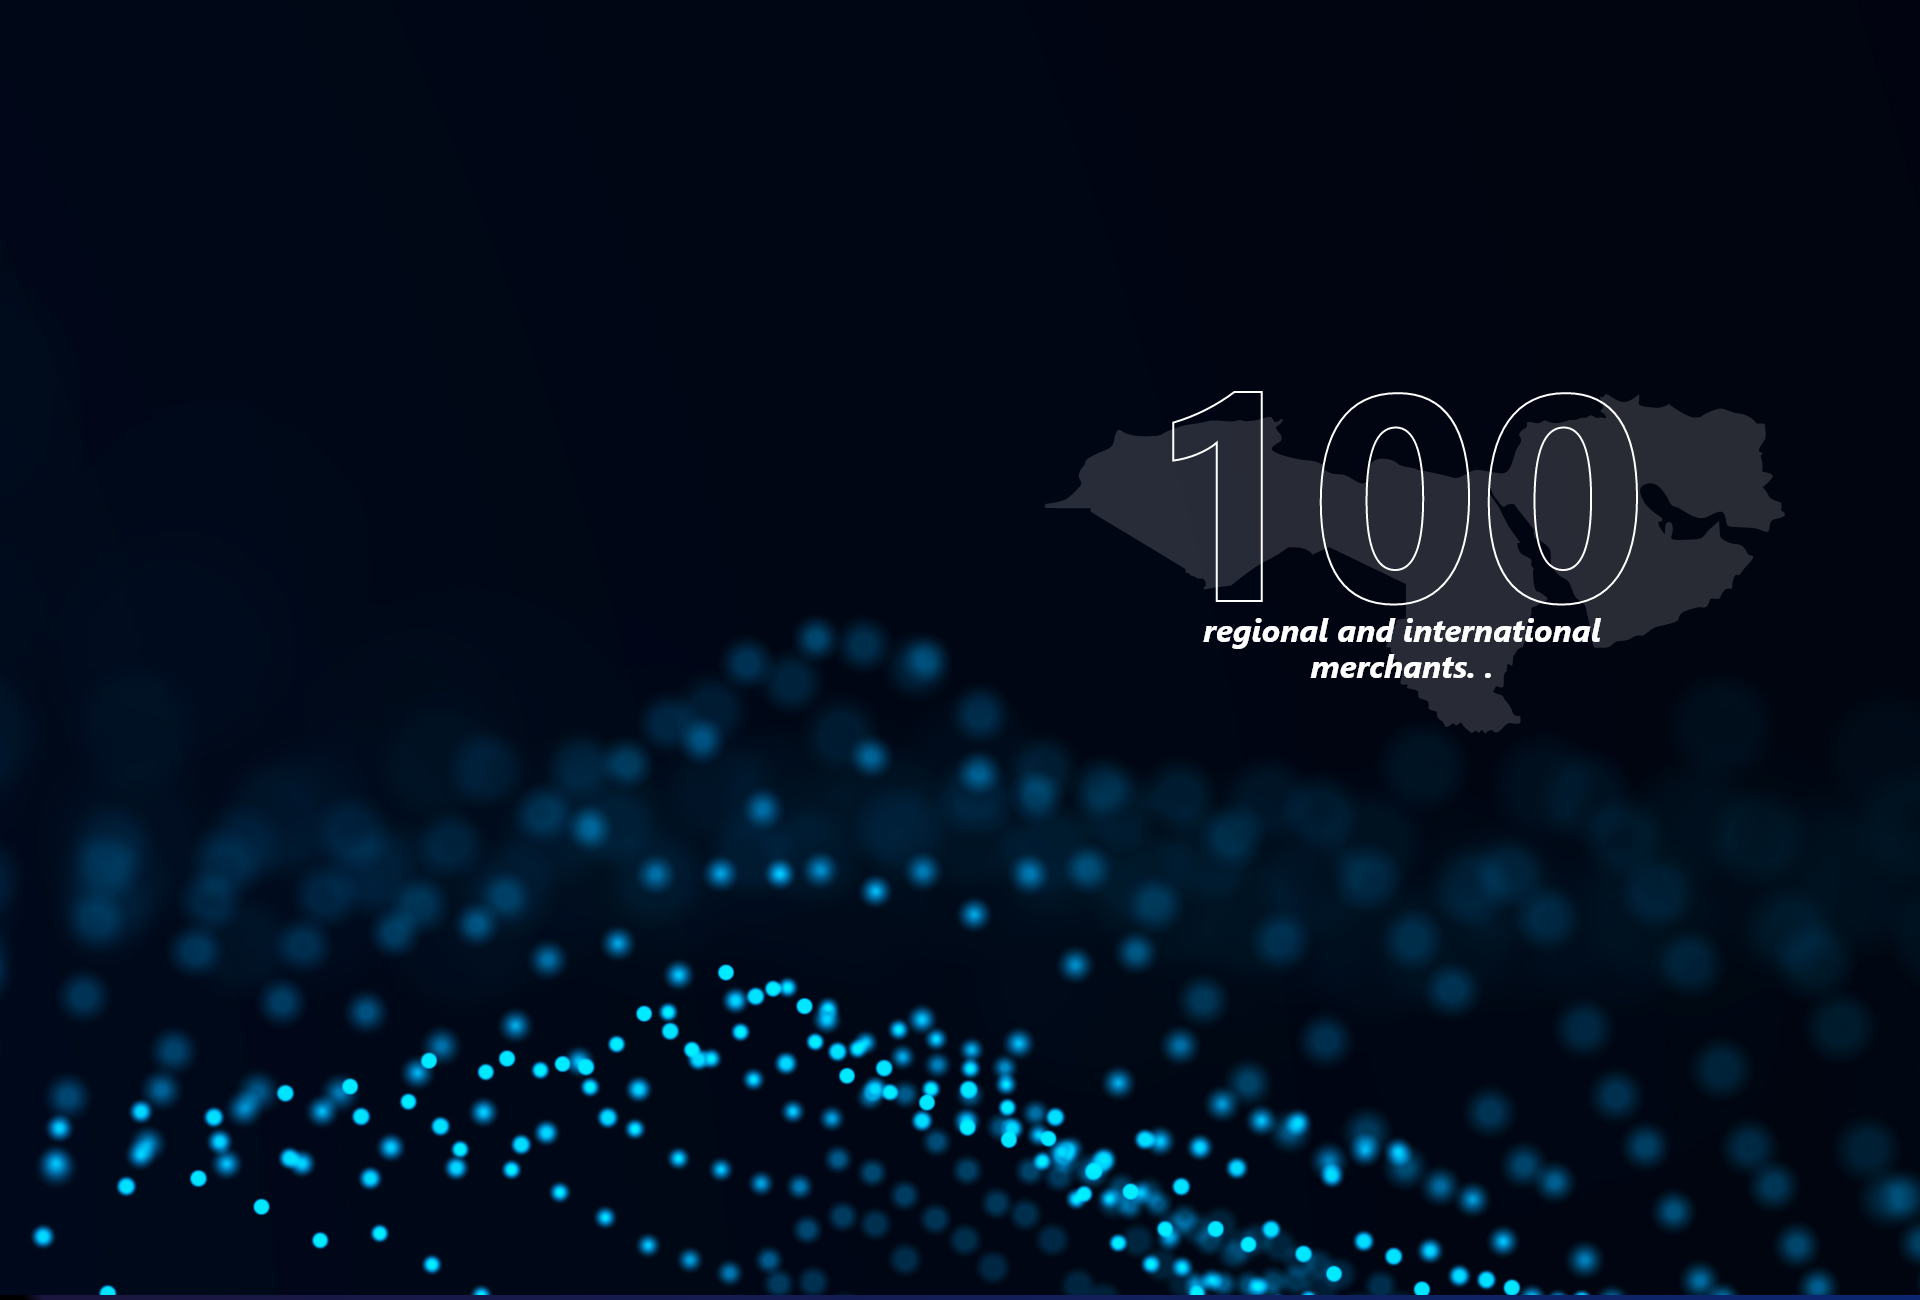
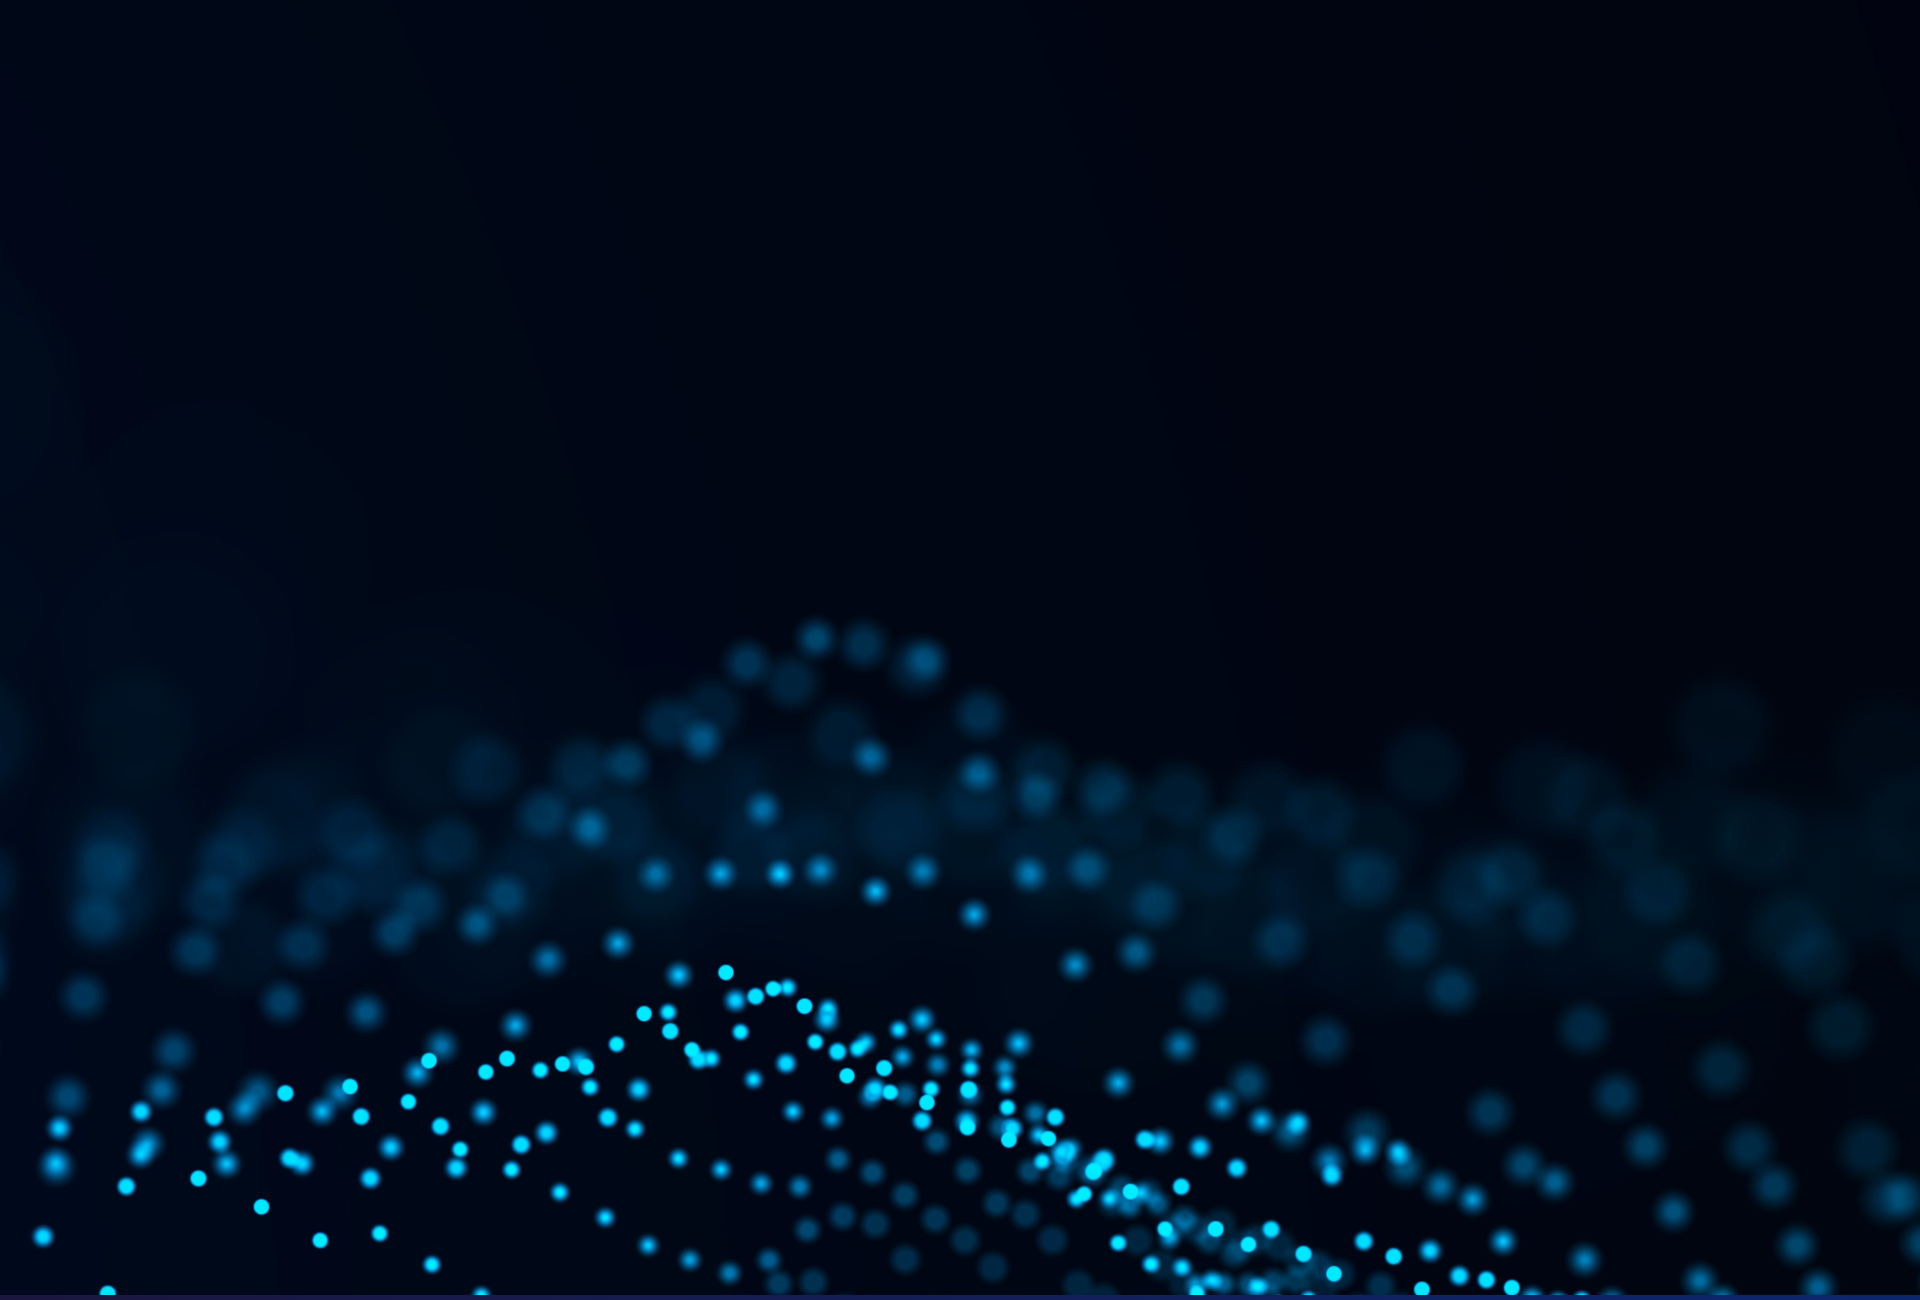
fixing

Changed region(s): [[0.5312, 0.3077, 0.9375, 0.5846], [0.0, 0.9846, 0.0312, 1.0]]

diff --git a/css/main.css b/css/main.css
@@ -203,6 +203,12 @@ footer {
   line-height:100%;
   margin-left: 15%;
   margin-bottom: auto;
+  margin-top: 30% !important;
+}
+
+.hundred {
+  margin-top: 22% !important;
+  margin-left: 10%;
 }
 
 .pro_title {
@@ -953,6 +959,8 @@ and (max-width : 1724px)  {
     margin-bottom: 0 !important;
   }
 
+ 
+
   .about_subtitle {
       font-size: 1.1em !important;
       line-height:150%;
@@ -971,10 +979,14 @@ and (max-width : 1724px)  {
   }
 
   .aboutus{
-    background-image: url("../img/mob_about.PNG");
+    background-image: url("../img/about us mobile.png");
     background-repeat: no-repeat;
     background-size: 100% 100%;
-    min-height: 150%;
+    min-height: 120%;
+  }
+
+  .hundred {
+    margin: -20% 0 0 0 !important;
   }
 
   .newsslider {

diff --git a/about-us.php b/about-us.php
@@ -18,6 +18,11 @@ include_once 'includes/nav.php';
                 grown to serve a network of more than
             </div>
         </div>
+        <div class="col-lg-6 col-md-6 col-xs-12 col-sm-6" data-aos="fade-up-left" >
+            <div class="hundred " >
+               <img src="./img/100.png" class="img-fluid">
+            </div>
+        </div>
     </div>
 </div>
 

diff --git a/includes/footer.php b/includes/footer.php
@@ -22,5 +22,12 @@
 </nav>
 
 </body>
-
+<script src="https://unpkg.com/aos@2.3.0/dist/aos.js"></script>
+<script>
+    
+   $(window).on('load', function() {
+        AOS.init();
+    });
+    window.addEventListener('load', AOS.refresh)
+</script>
 </html>
